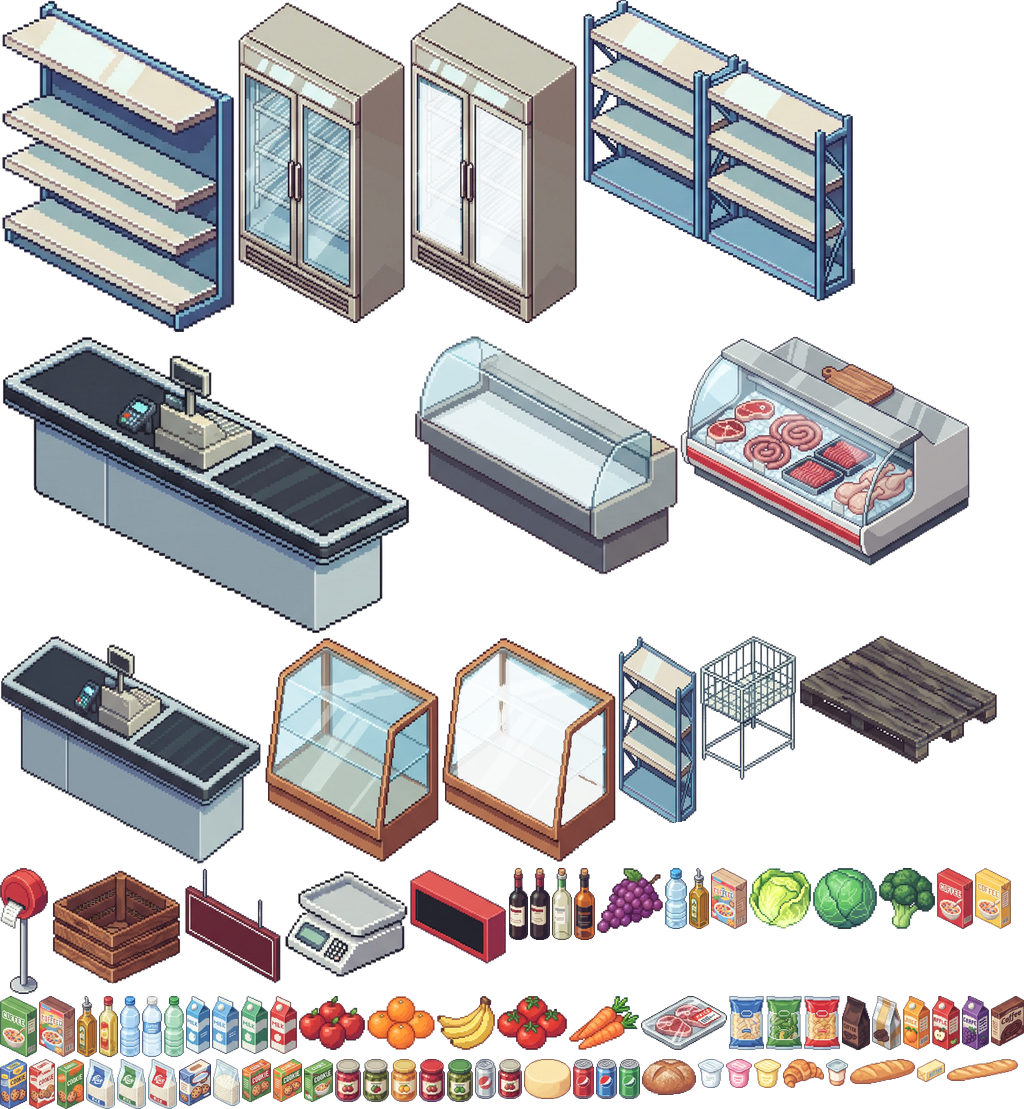
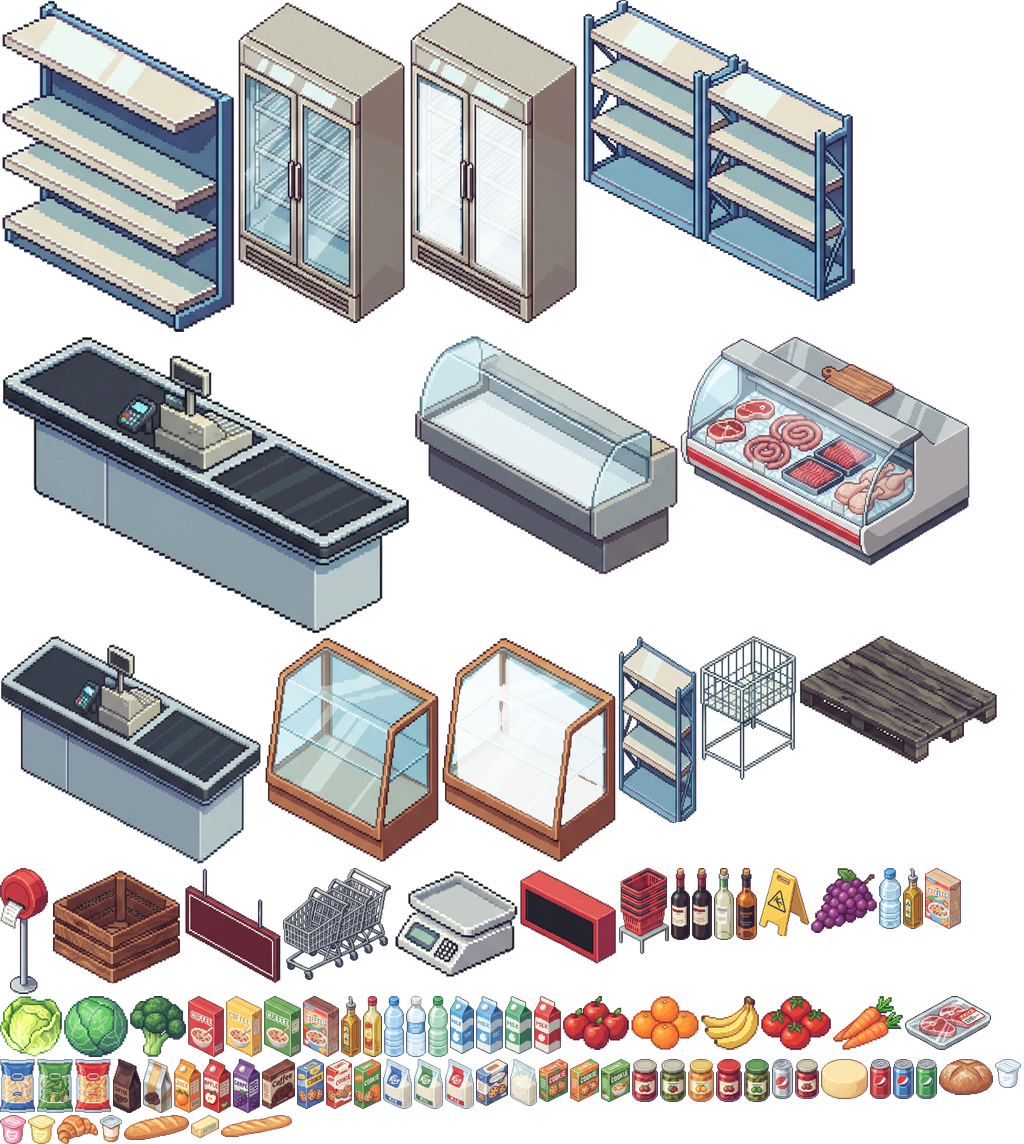
Grafica: nonna col carrello, addetta pulizie, magazziniere, clienti in fila, cartello e carrelli

diff --git a/nonna-moduli.html b/nonna-moduli.html
@@ -93,8 +93,8 @@ canvas{position:fixed;inset:0;width:100%;height:100%}
 // GRIGLIA ISOMETRICA. Una casella = rombo 116x60 px. i scende verso destra, j verso sinistra.
 // Le pareti stanno sui lati i=0 (sinistra) e j=0 (destra). Davanti la stanza è aperta.
 // ===================================================================================
-const atlas=new Image();atlas.src='personaggi2.png?v=2';
-const PG=/*PG*/{"nonna:idle":[0,0,106,205,67,205],"nonna:w1":[108,0,130,207,84,207],"nonna:w2":[240,0,128,207,80,207],"nonna:w3":[370,0,122,207,72,207],"nonna:bidle":[494,0,103,194,60,194],"nonna:b1":[599,0,104,197,62,197],"nonna:b2":[705,0,103,196,63,196],"nonna:b3":[810,0,102,197,59,197],"nonna:reach":[914,0,166,199,81,199],"nonna:bend":[1082,0,156,177,90,177],"nonna:bag":[1240,0,87,201,41,201],"nonna:jump":[0,209,154,191,71,191],"nonna:scale":[156,209,161,200,94,200],"nonna:box":[319,209,121,200,38,200],"nonna:win":[442,209,138,201,70,201],"nonna:lose":[582,209,112,200,51,200],"baffi:idle":[696,209,193,250,133,250],"baffi:w1":[891,209,199,250,140,250],"baffi:w2":[1092,209,193,250,134,250],"baffi:w3":[0,461,191,250,132,250],"baffi:bidle":[193,461,164,221,71,221],"baffi:b1":[359,461,165,221,68,221],"baffi:b3":[526,461,149,221,61,221],"baffi:think":[677,461,204,263,140,263],"baffi:grab":[883,461,279,263,215,263],"mamma:idle":[1164,461,157,245,102,245],"mamma:w1":[0,726,179,244,124,244],"mamma:w2":[181,726,177,244,112,244],"mamma:w3":[360,726,179,244,123,244],"mamma:b1":[541,726,113,229,46,229],"mamma:b2":[656,726,139,229,48,229],"mamma:b3":[797,726,142,229,50,229],"mamma:list":[941,726,180,239,122,239],"mamma:point":[1123,726,181,239,123,239],"mamma:scold":[0,972,182,239,124,239],"anziano:idle":[184,972,155,240,51,240],"anziano:w1":[341,972,154,240,71,240],"anziano:bidle":[497,972,154,244,96,244],"anziano:b1":[653,972,156,247,78,247],"anziano:b2":[811,972,154,237,100,237],"anziano:b3":[967,972,155,247,80,247],"anziano:look":[1124,972,180,238,79,238],"anziano:put":[0,1221,188,237,79,237],"anziano:hat":[190,1221,175,265,78,265],"anziano:cane":[367,1221,217,263,78,263],"ragazzo:idle":[586,1221,98,235,42,235],"ragazzo:w1":[686,1221,134,229,100,229],"ragazzo:w2":[822,1221,149,229,116,229],"ragazzo:w3":[973,1221,169,205,41,205],"ragazzo:bidle":[1144,1221,89,236,54,236],"ragazzo:b1":[1235,1221,141,226,115,226],"ragazzo:b3":[0,1488,155,216,96,216],"ragazzo:skid":[157,1488,214,238,152,238],"ragazzo:grab":[373,1488,136,233,76,233],"ragazzo:trip":[511,1488,205,236,92,236],"ragazzo:sorry":[718,1488,124,244,48,244],"cassieri:f_idle":[844,1488,85,250,42,250],"cassieri:f_scan":[931,1488,126,250,39,250],"cassieri:f_type":[1059,1488,147,250,37,250],"cassieri:f_wave":[1208,1488,120,250,38,250],"cassieri:m_idle":[0,1740,84,254,36,254],"cassieri:m_scan":[86,1740,118,253,32,253],"cassieri:m_type":[206,1740,142,248,31,248],"cassieri:m_wave":[350,1740,118,253,40,253],"macellaio:idle":[470,1740,104,255,35,255],"macellaio:chop":[576,1740,134,263,26,263],"macellaio:give":[712,1740,156,255,30,255],"macellaio:call":[870,1740,151,255,42,255]}/*PG*/; // pose dei personaggi: chiave 'chi:posa' -> [x,y,w,h,piedi x,piedi y], tutte girate a destra
+const atlas=new Image();atlas.src='personaggi2.png?v=3';
+const PG=/*PG*/{"nonna:idle":[0,0,106,205,67,205],"nonna:w1":[108,0,130,207,84,207],"nonna:w2":[240,0,128,207,80,207],"nonna:w3":[370,0,122,207,72,207],"nonna:bidle":[494,0,103,194,60,194],"nonna:b1":[599,0,104,197,62,197],"nonna:b2":[705,0,103,196,63,196],"nonna:b3":[810,0,102,197,59,197],"nonna:reach":[914,0,166,199,81,199],"nonna:bend":[1082,0,156,177,90,177],"nonna:bag":[1240,0,87,201,41,201],"nonna:jump":[0,209,154,191,71,191],"nonna:scale":[156,209,161,200,94,200],"nonna:box":[319,209,121,200,38,200],"nonna:win":[442,209,138,201,70,201],"nonna:lose":[582,209,112,200,51,200],"baffi:idle":[696,209,193,250,133,250],"baffi:w1":[891,209,199,250,140,250],"baffi:w2":[1092,209,193,250,134,250],"baffi:w3":[0,461,191,250,132,250],"baffi:bidle":[193,461,164,221,71,221],"baffi:b1":[359,461,165,221,68,221],"baffi:b3":[526,461,149,221,61,221],"baffi:think":[677,461,204,263,140,263],"baffi:grab":[883,461,279,263,215,263],"mamma:idle":[1164,461,157,245,102,245],"mamma:w1":[0,726,179,244,124,244],"mamma:w2":[181,726,177,244,112,244],"mamma:w3":[360,726,179,244,123,244],"mamma:b1":[541,726,113,229,46,229],"mamma:b2":[656,726,139,229,48,229],"mamma:b3":[797,726,142,229,50,229],"mamma:list":[941,726,180,239,122,239],"mamma:point":[1123,726,181,239,123,239],"mamma:scold":[0,972,182,239,124,239],"anziano:idle":[184,972,155,240,51,240],"anziano:w1":[341,972,154,240,71,240],"anziano:bidle":[497,972,154,244,96,244],"anziano:b1":[653,972,156,247,78,247],"anziano:b2":[811,972,154,237,100,237],"anziano:b3":[967,972,155,247,80,247],"anziano:look":[1124,972,180,238,79,238],"anziano:put":[0,1221,188,237,79,237],"anziano:hat":[190,1221,175,265,78,265],"anziano:cane":[367,1221,217,263,78,263],"ragazzo:idle":[586,1221,98,235,42,235],"ragazzo:w1":[686,1221,134,229,100,229],"ragazzo:w2":[822,1221,149,229,116,229],"ragazzo:w3":[973,1221,169,205,41,205],"ragazzo:bidle":[1144,1221,89,236,54,236],"ragazzo:b1":[1235,1221,141,226,115,226],"ragazzo:b3":[0,1488,155,216,96,216],"ragazzo:skid":[157,1488,214,238,152,238],"ragazzo:grab":[373,1488,136,233,76,233],"ragazzo:trip":[511,1488,205,236,92,236],"ragazzo:sorry":[718,1488,124,244,48,244],"cassieri:f_idle":[844,1488,85,250,42,250],"cassieri:f_scan":[931,1488,126,250,39,250],"cassieri:f_type":[1059,1488,147,250,37,250],"cassieri:f_wave":[1208,1488,120,250,38,250],"cassieri:m_idle":[0,1740,84,254,36,254],"cassieri:m_scan":[86,1740,118,253,32,253],"cassieri:m_type":[206,1740,142,248,31,248],"cassieri:m_wave":[350,1740,118,253,40,253],"macellaio:idle":[470,1740,104,255,35,255],"macellaio:chop":[576,1740,134,263,26,263],"macellaio:give":[712,1740,156,255,30,255],"macellaio:call":[870,1740,151,255,42,255],"nonnac:idle":[1023,1740,175,205,91,205],"nonnac:w1":[1200,1740,190,205,93,205],"nonnac:w2":[0,2005,185,205,94,205],"nonnac:w3":[187,2005,193,205,96,205],"nonnac:bidle":[382,2005,178,197,94,197],"nonnac:b1":[562,2005,198,199,96,199],"nonnac:b2":[762,2005,194,199,98,199],"nonnac:b3":[958,2005,197,199,96,199],"nonna:phone":[1157,2005,108,200,57,200],"nonna:slip":[0,2212,236,215,90,215],"nonna:watch":[238,2212,102,200,37,200],"nonna:wait":[342,2212,105,200,36,200],"pulizie:idle":[449,2212,93,235,50,235],"pulizie:w1":[544,2212,147,233,79,233],"pulizie:w2":[693,2212,147,235,63,235],"pulizie:w3":[842,2212,141,232,82,232],"pulizie:mop1":[985,2212,178,231,115,231],"pulizie:mop2":[1165,2212,179,231,115,231],"pulizie:sign":[0,2449,158,213,88,213],"pulizie:rest":[160,2449,130,245,68,245],"magazziniere:idle":[292,2449,187,245,94,245],"magazziniere:w1":[481,2449,235,245,117,245],"magazziniere:w2":[718,2449,203,245,101,245],"magazziniere:w3":[923,2449,221,245,110,245],"magazziniere:carry":[1146,2449,118,254,57,254],"magazziniere:shelf":[0,2705,176,251,85,251],"magazziniere:kneel":[178,2705,192,209,113,209],"magazziniere:thumb":[372,2705,127,256,62,256],"dama:idle":[501,2705,144,245,64,245],"manager:idle":[647,2705,116,249,43,249],"studente:idle":[765,2705,125,235,56,235],"tifoso:idle":[892,2705,167,256,85,256],"papa:idle":[1061,2705,188,263,98,263],"vecchina:idle":[0,2970,195,247,100,247],"muratore:idle":[197,2970,188,262,98,262],"riccia:idle":[387,2970,182,259,100,259]}/*PG*/; // pose dei personaggi: chiave 'chi:posa' -> [x,y,w,h,piedi x,piedi y], tutte girate a destra
 const T=58,U=30,ART=4,FW=24,FH=55,WALLH=250,MARG=90;
 // LIVELLI: ogni livello dice cosa c'è in lista e quanti clienti girano. Bilancia e macelleria compaiono solo quando servono.
 // fresh = verdure da pesare, pack = confezionati, meat = carne, time = secondi, npc = clienti, txt = spiegazione a inizio livello
@@ -176,8 +176,8 @@ function fruit(c,x,y,n){const [col,r]=FRUIT[n];c.strokeStyle='#2a1c14';c.lineWid
   else{ball(x,y-r*.7,r,col);if(r>15){ball(x,y-r*.95,r*.6,'rgba(255,255,255,.25)')}hi(x,y-r*.7,r)}}
 
 // pezzi del foglio AI, già scalati alla griglia da tools/kit.py (kit.png + misure qui sotto)
-const kit=new Image();kit.src='kit.png?v=5'; // ?v: il telefono non tiene la vecchia immagine
-const KJ=/*KIT*/{"scaffale":{"ax":5.4,"ay":181.6,"L":4,"sv":0.4462,"boards":[149.0,104.4,59.8,10.7],"spans":[[0.03,0.44],[0.52,0.96]],"r":[581,0,277,304]},"muro":{"ax":4.2,"ay":241.2,"L":3,"sv":0.5631,"boards":[203.8,125.0,74.3,20.8],"spans":[[0.02,1.0]],"r":[0,0,235,332]},"frigo":{"ax":2.9,"ay":262.5,"L":2,"sv":0.45,"boards":[155.7,115.2,74.7,38.7],"spans":[[0.06,0.46],[0.56,0.94]],"r":[237,0,170,323]},"frigo:vetro":{"ax":2.9,"ay":262.5,"r":[409,0,170,323]},"cassetta":{"ax":4.4,"ay":84.8,"L":1,"sv":0.3694,"r":[50,868,132,117]},"pane":{"ax":2.7,"ay":165.7,"L":2,"sv":0.42,"r":[264,635,175,228]},"pane:vetro":{"ax":2.7,"ay":165.7,"r":[441,635,175,228]},"cassa":{"ax":141.8,"ay":206.8,"L":3,"sv":0.5273,"r":[0,334,412,299]},"cassa2":{"ax":24.7,"ay":135.2,"L":3,"sv":0.45,"r":[0,635,262,231]},"salumi":{"ax":13.5,"ay":146.5,"L":3,"sv":0.3742,"r":[414,334,264,241]},"bancale":{"ax":0.9,"ay":67.8,"L":2,"sv":0.3045,"r":[799,635,199,129]},"cesta":{"ax":2.4,"ay":123.4,"L":0.7,"sv":0.2671,"r":[699,635,98,146]},"testata":{"ax":1.7,"ay":155.6,"L":1,"sv":0.3,"boards":[104.1,72.3,40.5,9.0],"spans":[[0.05,0.85]],"r":[618,635,79,189]},"bilancia":{"ax":4.3,"ay":81.0,"L":0.9,"sv":0.4789,"r":[283,868,125,110]},"macelleria":{"ax":16.0,"ay":139.8,"L":3,"sv":0.2434,"r":[680,334,291,234]},"display":{"ax":0.7,"ay":56.2,"L":1.32,"sv":0.243,"r":[410,868,97,97]},"insegna":{"ax":1.7,"ay":65.2,"L":1.6,"sv":0.2442,"r":[184,868,97,116]},"p:ACQUA:0":{"r":[665,868,22,61]},"p:VINO:0":{"r":[509,868,19,72]},"p:OLIO:0":{"r":[689,868,20,61]},"p:BIBITE:0":{"r":[475,1059,21,40]},"p:CONSERVE:0":{"r":[498,1059,24,40]},"p:BISCOTTI:0":{"r":[179,1059,32,47]},"p:CAFFÈ:0":{"r":[991,996,33,50]},"p:CEREALI:0":{"r":[711,868,36,61]},"p:RISO:0":{"r":[213,1059,27,47]},"p:LATTE:0":{"r":[186,996,24,58]},"p:YOGURT:0":{"r":[826,1059,22,27]},"p:BURRO:0":{"r":[917,1059,28,23]},"p:FORMAGGI:0":{"r":[524,1059,47,40]},"p:MELE:0":{"r":[299,996,66,54]},"p:ARANCE:0":{"r":[367,996,68,54]},"p:BANANE:0":{"r":[437,996,58,54]},"p:POMODORI:0":{"r":[497,996,70,54]},"p:UVA:0":{"r":[597,868,66,65]},"p:INSALATA:0":{"r":[749,868,62,61]},"p:CAVOLI:0":{"r":[813,868,64,61]},"p:BROCCOLI:0":{"r":[879,868,56,61]},"p:CAROTE:0":{"r":[569,996,70,54]},"p:CARNE:0":{"r":[641,996,86,54]},"distributore":{"r":[0,868,48,126]},"p:PASTA:0":{"r":[729,996,35,54]},"p:PASTA:1":{"r":[766,996,36,54]},"p:PASTA:2":{"r":[804,996,36,54]},"p:BISCOTTI:1":{"r":[0,1059,27,50]},"p:BISCOTTI:2":{"r":[29,1059,26,50]},"p:BISCOTTI:3":{"r":[57,1059,27,50]},"p:BISCOTTI:4":{"r":[242,1059,29,43]},"p:BISCOTTI:5":{"r":[273,1059,29,43]},"p:BISCOTTI:6":{"r":[304,1059,29,43]},"p:CEREALI:1":{"r":[937,868,36,61]},"p:CEREALI:2":{"r":[975,868,36,61]},"p:CEREALI:3":{"r":[0,996,37,61]},"p:CEREALI:4":{"r":[39,996,36,61]},"p:CAFFÈ:1":{"r":[842,996,28,54]},"p:CAFFÈ:2":{"r":[872,996,29,54]},"p:RISO:1":{"r":[86,1059,29,50]},"p:RISO:2":{"r":[117,1059,29,50]},"p:RISO:3":{"r":[148,1059,29,50]},"p:CONSERVE:1":{"r":[335,1059,26,43]},"p:CONSERVE:2":{"r":[363,1059,26,43]},"p:CONSERVE:3":{"r":[391,1059,26,43]},"p:CONSERVE:4":{"r":[419,1059,26,43]},"p:CONSERVE:5":{"r":[447,1059,26,43]},"p:OLIO:1":{"r":[77,996,20,61]},"p:OLIO:2":{"r":[99,996,19,61]},"p:VINO:1":{"r":[530,868,20,72]},"p:VINO:2":{"r":[552,868,20,72]},"p:VINO:3":{"r":[574,868,21,72]},"p:ACQUA:1":{"r":[120,996,20,61]},"p:ACQUA:2":{"r":[142,996,20,61]},"p:ACQUA:3":{"r":[164,996,20,61]},"p:BIBITE:1":{"r":[573,1059,21,40]},"p:BIBITE:2":{"r":[596,1059,21,40]},"p:BIBITE:3":{"r":[619,1059,21,40]},"p:SUCCHI:0":{"r":[903,996,27,54]},"p:SUCCHI:1":{"r":[932,996,28,54]},"p:SUCCHI:2":{"r":[962,996,27,54]},"p:LATTE:1":{"r":[212,996,27,58]},"p:LATTE:2":{"r":[241,996,27,58]},"p:LATTE:3":{"r":[270,996,27,58]},"p:YOGURT:1":{"r":[698,1059,26,29]},"p:YOGURT:2":{"r":[726,1059,26,29]},"p:YOGURT:3":{"r":[754,1059,27,29]},"p:PANE:0":{"r":[642,1059,54,36]},"p:PANE:1":{"r":[850,1059,65,25]},"p:PANE:2":{"r":[947,1059,71,22]},"p:PANE:3":{"r":[783,1059,41,29]}}/*KIT*/;
+const kit=new Image();kit.src='kit.png?v=6'; // ?v: il telefono non tiene la vecchia immagine
+const KJ=/*KIT*/{"scaffale":{"ax":5.4,"ay":181.6,"L":4,"sv":0.4462,"boards":[149.0,104.4,59.8,10.7],"spans":[[0.03,0.44],[0.52,0.96]],"r":[581,0,277,304]},"muro":{"ax":4.2,"ay":241.2,"L":3,"sv":0.5631,"boards":[203.8,125.0,74.3,20.8],"spans":[[0.02,1.0]],"r":[0,0,235,332]},"frigo":{"ax":2.9,"ay":262.5,"L":2,"sv":0.45,"boards":[155.7,115.2,74.7,38.7],"spans":[[0.06,0.46],[0.56,0.94]],"r":[237,0,170,323]},"frigo:vetro":{"ax":2.9,"ay":262.5,"r":[409,0,170,323]},"cassetta":{"ax":4.4,"ay":84.8,"L":1,"sv":0.3694,"r":[50,868,132,117]},"pane":{"ax":2.7,"ay":165.7,"L":2,"sv":0.42,"r":[264,635,175,228]},"pane:vetro":{"ax":2.7,"ay":165.7,"r":[441,635,175,228]},"cassa":{"ax":141.8,"ay":206.8,"L":3,"sv":0.5273,"r":[0,334,412,299]},"cassa2":{"ax":24.7,"ay":135.2,"L":3,"sv":0.45,"r":[0,635,262,231]},"salumi":{"ax":13.5,"ay":146.5,"L":3,"sv":0.3742,"r":[414,334,264,241]},"bancale":{"ax":0.9,"ay":67.8,"L":2,"sv":0.3045,"r":[799,635,199,129]},"cesta":{"ax":2.4,"ay":123.4,"L":0.7,"sv":0.2671,"r":[699,635,98,146]},"testata":{"ax":1.7,"ay":155.6,"L":1,"sv":0.3,"boards":[104.1,72.3,40.5,9.0],"spans":[[0.05,0.85]],"r":[618,635,79,189]},"bilancia":{"ax":4.3,"ay":81.0,"L":0.9,"sv":0.4789,"r":[393,868,125,110]},"macelleria":{"ax":16.0,"ay":139.8,"L":3,"sv":0.2434,"r":[680,334,291,234]},"display":{"ax":0.7,"ay":56.2,"L":1.32,"sv":0.243,"r":[520,868,97,97]},"insegna":{"ax":1.7,"ay":65.2,"L":1.6,"sv":0.2442,"r":[184,868,97,116]},"p:ACQUA:0":{"r":[879,868,22,61]},"p:VINO:0":{"r":[671,868,19,72]},"p:OLIO:0":{"r":[903,868,20,61]},"p:BIBITE:0":{"r":[772,1059,21,40]},"p:CONSERVE:0":{"r":[795,1059,24,40]},"p:BISCOTTI:0":{"r":[476,1059,32,47]},"p:CAFFÈ:0":{"r":[262,1059,33,50]},"p:CEREALI:0":{"r":[925,868,36,61]},"p:RISO:0":{"r":[510,1059,27,47]},"p:LATTE:0":{"r":[450,996,24,58]},"p:YOGURT:0":{"r":[100,1115,22,27]},"p:BURRO:0":{"r":[191,1115,28,23]},"p:FORMAGGI:0":{"r":[821,1059,47,40]},"p:MELE:0":{"r":[563,996,66,54]},"p:ARANCE:0":{"r":[631,996,68,54]},"p:BANANE:0":{"r":[701,996,58,54]},"p:POMODORI:0":{"r":[761,996,70,54]},"p:UVA:0":{"r":[811,868,66,65]},"p:INSALATA:0":{"r":[0,996,62,61]},"p:CAVOLI:0":{"r":[64,996,64,61]},"p:BROCCOLI:0":{"r":[130,996,56,61]},"p:CAROTE:0":{"r":[833,996,70,54]},"p:CARNE:0":{"r":[905,996,86,54]},"distributore":{"r":[0,868,48,126]},"cartello":{"r":[759,868,50,68]},"carrelli":{"r":[283,868,108,112]},"cestini":{"r":[619,868,50,86]},"p:PASTA:0":{"r":[0,1059,35,54]},"p:PASTA:1":{"r":[37,1059,36,54]},"p:PASTA:2":{"r":[75,1059,36,54]},"p:BISCOTTI:1":{"r":[297,1059,27,50]},"p:BISCOTTI:2":{"r":[326,1059,26,50]},"p:BISCOTTI:3":{"r":[354,1059,27,50]},"p:BISCOTTI:4":{"r":[539,1059,29,43]},"p:BISCOTTI:5":{"r":[570,1059,29,43]},"p:BISCOTTI:6":{"r":[601,1059,29,43]},"p:CEREALI:1":{"r":[188,996,36,61]},"p:CEREALI:2":{"r":[226,996,36,61]},"p:CEREALI:3":{"r":[264,996,37,61]},"p:CEREALI:4":{"r":[303,996,36,61]},"p:CAFFÈ:1":{"r":[113,1059,28,54]},"p:CAFFÈ:2":{"r":[143,1059,29,54]},"p:RISO:1":{"r":[383,1059,29,50]},"p:RISO:2":{"r":[414,1059,29,50]},"p:RISO:3":{"r":[445,1059,29,50]},"p:CONSERVE:1":{"r":[632,1059,26,43]},"p:CONSERVE:2":{"r":[660,1059,26,43]},"p:CONSERVE:3":{"r":[688,1059,26,43]},"p:CONSERVE:4":{"r":[716,1059,26,43]},"p:CONSERVE:5":{"r":[744,1059,26,43]},"p:OLIO:1":{"r":[341,996,20,61]},"p:OLIO:2":{"r":[363,996,19,61]},"p:VINO:1":{"r":[692,868,20,72]},"p:VINO:2":{"r":[714,868,20,72]},"p:VINO:3":{"r":[736,868,21,72]},"p:ACQUA:1":{"r":[384,996,20,61]},"p:ACQUA:2":{"r":[406,996,20,61]},"p:ACQUA:3":{"r":[428,996,20,61]},"p:BIBITE:1":{"r":[870,1059,21,40]},"p:BIBITE:2":{"r":[893,1059,21,40]},"p:BIBITE:3":{"r":[916,1059,21,40]},"p:SUCCHI:0":{"r":[174,1059,27,54]},"p:SUCCHI:1":{"r":[203,1059,28,54]},"p:SUCCHI:2":{"r":[233,1059,27,54]},"p:LATTE:1":{"r":[476,996,27,58]},"p:LATTE:2":{"r":[505,996,27,58]},"p:LATTE:3":{"r":[534,996,27,58]},"p:YOGURT:1":{"r":[995,1059,26,29]},"p:YOGURT:2":{"r":[0,1115,26,29]},"p:YOGURT:3":{"r":[28,1115,27,29]},"p:PANE:0":{"r":[939,1059,54,36]},"p:PANE:1":{"r":[124,1115,65,25]},"p:PANE:2":{"r":[221,1115,71,22]},"p:PANE:3":{"r":[57,1115,41,29]}}/*KIT*/;
 const FV={macelleria:2,scaffale:.8,muro:.5,frigo:.92,pane:.88,cassetta:1,cassa2:1.9,salumi:1,bancale:1.7,cesta:.95,testata:.95};
 const VAR=c=>Object.keys(KJ).filter(k=>k.startsWith('p:'+c+':')); // tutte le marche di una categoria // dove cade il bordo anteriore dentro la casella
 const anchor=(m,fv,du=0)=>m.ax==='i'?iso(m.i+du,m.j+fv):iso(m.i+fv,m.j+du);
@@ -332,7 +332,7 @@ let AC;function beep(f,d=.08,t='square'){try{AC=AC||new AudioContext();const o=A
 const CAST=[{who:'baffi',cart:true,speed:150,extras:['think','grab']},{who:'mamma',cart:true,speed:135,extras:['list','point','scold']},
   {who:'anziano',cart:false,speed:105,extras:['look','put','hat','cane']},{who:'ragazzo',cart:false,speed:240,extras:['grab','sorry','skid']}];
 let CASH=[]; // cassieri: stanno fermi dietro il banco e cambiano posa
-let G,NPC=[],READY=false,CODE={},WET=[],OUT=null,CHOICE=0;
+let G,NPC=[],READY=false,CODE={},WET=[],OUT=null,CHOICE=0,CLEAN=null,MAG=null;
 // FILA ALLA BILANCIA: QUEUE[0] è chiamato. Se c'è qualcuno dietro ha WINDOW secondi per presentarsi, poi perde il posto.
 const WINDOW=5,NAME={nonna:'TU',baffi:'Signore',mamma:'Mamma',anziano:'Nonno',ragazzo:'Ragazzo'};let QUEUE=[],QT=WINDOW;
 function book(a){if(!QUEUE.includes(a)){QUEUE.push(a);if(QUEUE.length===1)QT=WINDOW}}
@@ -382,29 +382,46 @@ function start(keepLevel){
   OUT=null;if(L.out){const c=G.list.filter(e=>!FRESH.has(e.n)&&e.n!=='CARNE'&&MODS.some(m=>m.cat===e.n)),alts=[...new Set(SPOTS.map(s=>s.n))].filter(n=>!FRESH.has(n)&&!G.list.some(e=>e.n===n));
     if(c.length&&alts.length){const e=c[ri(c.length)];e.alt=alts[ri(alts.length)];OUT={n:e.n,t:rnd(35,50)}}}
   stock();
-  G.cart=!!L.cart&&CHOICE===1;if(G.cart){G.rx=50;G.ry=20}
+  G.cart=!!L.cart&&CHOICE===1;if(G.cart)Object.assign(G,{who:'nonnac',rx:50,ry:20});
+  CLEAN=L.wet?Object.assign(newActor('pulizie',...(({x,y})=>[x,y])(wetSpot(WET))),{path:[],st:null,t:0}):null;
+  MAG=null;if(OUT){const sp=SPOTS.find(s=>s.n===OUT.n),goal=nearestNode(...iso(sp.i,sp.j)),far=NODES.map((p,i)=>i).filter(i=>ADJ[i].length&&Math.hypot(NODES[i][0]-NODES[goal][0],NODES[i][1]-NODES[goal][1])>700),home=far.length?far[ri(far.length)]:goal;
+    const path=pathTo(home,goal)||[];let len=0;path.reduce((a,b)=>(len+=Math.hypot(a[0]-b[0],a[1]-b[1]),b),NODES[home]);
+    MAG=Object.assign(newActor('magazziniere',...NODES[home]),{path:[],goal,st:'wait',cart:true,lead:len/120+5})} // parte in tempo per arrivare 5 s prima del rifornimento
   $('over').hidden=true;drawList()}
 // fila alla cassa: un cliente in più in coda (i clienti in fila sono comparse ferme, non girano)
-function addQ(c){if(c.q.length>=c.slots.length)return;const w=CAST[ri(CAST.length)];c.q.push(Object.assign(newActor(w.who,...c.slots[c.q.length]),{cart:w.cart}))}
+const EXTRAS=[['dama'],['manager'],['studente'],['tifoso'],['papa',1],['vecchina',1],['muratore',1],['riccia',1]];
+function addQ(c){if(c.q.length>=c.slots.length)return;const used=new Set(CASSE.flatMap(c=>c.q.map(a=>a.who))),pool=EXTRAS.filter(e=>!used.has(e[0]));if(!pool.length)return;
+  const [who,cart]=pool[ri(pool.length)];c.q.push(Object.assign(newActor(who,...c.slots[c.q.length]),{cart:!!cart}))}
 function updateTills(dt){for(const c of CASSE){
-  c.q.forEach((a,k)=>{const [x,y]=c.slots[Math.min(k,c.slots.length-1)],dx=x-a.x,dy=y-a.y,d=Math.hypot(dx,dy);a.front=true;a.flip=false;if(d>3){const v=Math.min(d,200*dt);a.x+=dx/d*v;a.y+=dy/d*v;a.moving=true;a.walk+=dt*6}else a.moving=false});
+  c.q.forEach((a,k)=>{const [x,y]=c.slots[Math.min(k,c.slots.length-1)],dx=x-a.x,dy=y-a.y,d=Math.hypot(dx,dy);a.front=true;a.flip=false;if(d>3){const v=Math.min(d,200*dt);a.x+=dx/d*v;a.y+=dy/d*v;a.moving=true;a.walk+=dt*6}else a.moving=false;
+    if(a===G)G.pose=a.moving||G.cart?null:G.time%6<3?'wait':'watch'}); // in fila la nonna aspetta e guarda l'orologio
   if(c.q[0]===G)return winGame();
   if(c.q.length&&(c.t-=dt)<=0){c.q.shift();c.t=c.rate}
   if(lv(LV).tills&&Math.random()<dt/(c.rate*1.4))addQ(c)}}
+function walk(a,dt,sp){const [tx,ty]=a.path[0],dx=tx-a.x,dy=ty-a.y,d=Math.hypot(dx,dy);if(d<6){a.path.shift();return}
+  const v=Math.min(d,sp*dt);a.x+=dx/d*v;a.y+=dy/d*v;a.moving=true;a.walk+=dt*sp/30;face(a,dx,dy);a.front=true} // niente pose di spalle: sempre di fronte
+// addetta pulizie: va in un punto, passa lo straccio, mette il cartello; la pozzanghera più vecchia si asciuga
+function updateClean(c,dt){if(!c)return;c.moving=false;
+  if(c.t>0){c.t-=dt;c.pose=c.st==='mop'?((c.t*2.5|0)%2?'mop1':'mop2'):c.st;if(c.t>0)return;
+    if(c.st==='mop'){WET.push({x:c.x,y:c.y});if(WET.length>lv(LV).wet)WET.shift();c.st='sign';c.t=.8;return}
+    if(c.st==='sign'){c.st='rest';c.t=1.5;return}
+    c.st=null;c.pose=null;const s=wetSpot(WET);c.path=pathTo(nearestNode(c.x,c.y),nearestNode(s.x,s.y))||[];return}
+  if(!c.path.length){c.st='mop';c.t=3;return}
+  walk(c,dt,110)}
+// magazziniere: aspetta col carrello delle scatole, parte in tempo, apre la scatola e riempie lo scaffale
+function updateMag(m,dt){if(!m)return;m.moving=false;
+  if(m.st==='wait'){if(OUT.t<=m.lead){m.st='go';m.path=pathTo(nearestNode(m.x,m.y),m.goal)||[]}return}
+  if(m.st==='go'){if(m.path.length)return walk(m,dt,120);m.st='work'}
+  if(m.st==='work'){m.pose=OUT.t>2.5?'kneel':'shelf';if(OUT.t<=0){m.st='done';m.pose='thumb';m.t=1.5}return}
+  if(m.st==='done'&&(m.t-=dt)<=0){m.pose=null;m.st='idle'}}
 function winGame(){end(true);[523,659,784,1046].forEach((f,i)=>setTimeout(()=>beep(f,.12),i*120))}
 // pozzanghera: in corsia, lontana da ingresso, casse, bilancia, macelleria e dalle altre pozzanghere
 function wetSpot(others){for(let t=0;t<60;t++){const i=ri(NODES.length);if(!ADJ[i].length)continue;const [x,y]=NODES[i],far=p=>Math.hypot(x-p[0],y-p[1])>260;
-  if(far(iso(...START))&&CASSE.every(c=>far(c.slots[0]))&&(!SCALE||far(SCALE_STAND))&&(!MAC||far(MAC.stand))&&others.every(w=>far([w.x,w.y])))return{x,y,t:rnd(15,22)}}return{x:-1e4,y:-1e4,t:5}}
-function drawSign(x,y){poly(ctx,[[x-16,y],[x+16,y],[x+8,y-58],[x-8,y-58]],'#f4d020','#3a2a10',3);ctx.font='700 30px "Pixelify Sans",monospace';ctx.textAlign='center';ctx.textBaseline='middle';ctx.fillStyle='#3a2a10';ctx.fillText('!',x,y-28)}
-// ponytail: carrello disegnato a mano finché non c'è lo sprite della nonna col carrello
-function drawCart(a){const d=a.flip?-1:1,x=a.x+d*56,y=a.y;ctx.lineWidth=4;ctx.strokeStyle='#4a525e';
-  poly(ctx,[[x-d*38,y-82],[x+d*38,y-82],[x+d*30,y-30],[x-d*30,y-30]],'rgba(205,214,224,.6)','#4a525e',4);
-  ctx.beginPath();for(let k=-2;k<=2;k++){ctx.moveTo(x+d*k*14,y-82);ctx.lineTo(x+d*k*11,y-30)}ctx.moveTo(x-d*38,y-82);ctx.lineTo(x-d*56,y-98);ctx.stroke();
-  ctx.fillStyle='#2a2430';for(const k of [-22,22]){ctx.beginPath();ctx.arc(x+d*k,y-12,7,0,7);ctx.fill()}}
+  if(far(iso(...START))&&CASSE.every(c=>far(c.slots[0]))&&(!SCALE||far(SCALE_STAND))&&(!MAC||far(MAC.stand))&&others.every(w=>far([w.x,w.y])))return{x,y}}return{x:-1e4,y:-1e4}}
 // telefonata del nipote: toglie una cosa non ancora presa oppure ne aggiunge una (+10 s)
 function phone(){const inL=new Set(G.list.flatMap(e=>[e.n,e.alt])),add=[...new Set(SPOTS.map(s=>s.n))].filter(n=>!inL.has(n)&&(SCALE||!FRESH.has(n))),
   drop=G.list.filter(e=>!e.got&&!G.bag.includes(e.n)&&e.n!=='CARNE'&&!e.alt);
-  [0,220,440,660].forEach(t=>setTimeout(()=>beep(1320,.07),t));act(G,'idle',2.5);
+  [0,220,440,660].forEach(t=>setTimeout(()=>beep(1320,.07),t));act(G,'phone',3);
   if(drop.length&&(Math.random()<.4||!add.length)){const e=drop[ri(drop.length)];G.list.splice(G.list.indexOf(e),1);say('📞 Il nipote: «Nonna, lascia stare '+e.n+'!»',3.5);checkDone()}
   else if(add.length){const n=add[ri(add.length)];G.list.push({n,got:false,nu:true});G.time+=10;say('📞 Il nipote: «Nonna, prendi anche '+n+'!» +10s',3.5)}
   drawList()}
@@ -541,7 +558,7 @@ function update(dt){
   if(G.weighing){G.front=false;updBil(dt)}
   else if(G.serving){G.front=false;if((G.serveT-=dt)<=0){G.serving=false;leaveMac(G);const e=G.list.find(e=>e.n==='CARNE');if(e)e.got=true;act(G,'box',.6);drawList();say('Carne nel cestino!');beep(880);setTimeout(()=>beep(1175),70);checkDone()}}
   else if(G.slipT>0)G.slipT-=dt;
-  else if(G.till){if(Math.hypot(...inputVec())>.5){const q=G.till.q;q.splice(q.indexOf(G),1);G.till=null;G.tillCD=1.5;say('Hai lasciato la fila')}}
+  else if(G.till){if(Math.hypot(...inputVec())>.5){const q=G.till.q;q.splice(q.indexOf(G),1);G.till=null;G.tillCD=1.5;G.pose=null;say('Hai lasciato la fila')}}
   else{const [vx,vy]=inputVec(),m=Math.hypot(vx,vy);
     if(m>.12){const sp=(G.cart?270:380)*dt,nx=G.x+vx*sp,ny=G.y+vy*sp*.75;face(G,vx,vy);
       if(walkable(nx,G.y)&&!hits(G,nx,G.y))G.x=nx;if(walkable(G.x,ny)&&!hits(G,G.x,ny))G.y=ny;G.walk+=dt*9;G.moving=true}}
@@ -555,9 +572,9 @@ function update(dt){
     c.q.push(G);G.till=c;if(c.q.length>1)say('In fila: '+(c.q.length-1)+' davanti a te');break}
   updateTills(dt);if(G.state!=='play')return;
   if(G.slipCD>0)G.slipCD-=dt;
-  if(G.moving&&!(G.z>0)&&!(G.slipCD>0)&&WET.some(w=>((G.x-w.x)/70)**2+((G.y-w.y)/34)**2<1)){G.slipT=1.3;G.slipCD=3;act(G,'lose',1.3);say('Scivolone! Le pozzanghere si saltano',1.8);beep(140,.3,'sawtooth')}
-  for(const w of WET)if((w.t-=dt)<=0)Object.assign(w,wetSpot(WET.filter(o=>o!==w))); // l'addetto asciuga e bagna altrove
-  if(lv(LV).cart&&!G.cart&&load()>=4&&Math.hypot(G.x-iso(...START)[0],G.y-iso(...START)[1])<150){G.cart=true;G.rx=50;G.ry=20;drawList();say('Preso il carrello!');beep(600,.08)}
+  if(G.moving&&!(G.z>0)&&!(G.slipCD>0)&&WET.some(w=>((G.x-w.x)/70)**2+((G.y-w.y)/34)**2<1)){G.slipT=1.3;G.slipCD=3;act(G,'slip',1.3);say('Scivolone! Le pozzanghere si saltano',1.8);beep(140,.3,'sawtooth')}
+  updateClean(CLEAN,dt);updateMag(MAG,dt);
+  if(lv(LV).cart&&!G.cart&&load()>=4&&Math.hypot(G.x-iso(...START)[0],G.y-iso(...START)[1])<150){Object.assign(G,{cart:true,who:'nonnac',rx:50,ry:20,pose:null});drawList();say('Preso il carrello!');beep(600,.08)}
   if(G.phoneAt>0&&G.time<G.phoneAt){G.phoneAt=-1;phone()}
   if(OUT&&OUT.t>0&&(OUT.t-=dt)<=0){stock();const e=G.list.find(e=>e.n===OUT.n);if(e&&!e.got)say(OUT.n+' rifornito!',2)}
   const t=Math.ceil(G.time);$('time').textContent=Math.floor(t/60)+':'+String(t%60).padStart(2,'0');$('time').style.color=t<=10?'#ffd040':'#ff5040';
@@ -583,6 +600,7 @@ function occlude(a,x0,x1,y0,y1){const [ai,aj]=toTile(a.x,a.y);
     ctx.save();ctx.beginPath();ctx.rect(x0,y0,x1-x0,y1-y0);ctx.clip();ctx.drawImage(m.cv,m.bx,m.by);ctx.restore()}}
 function tag(x,y,t,fill='#e8c878'){ctx.font='700 40px "Pixelify Sans",monospace';ctx.textAlign='center';ctx.textBaseline='middle';const w=ctx.measureText(t).width+28;
   ctx.fillStyle='#1c3a24';ctx.fillRect(x-w/2-4,y-29,w+8,58);ctx.fillStyle=fill;ctx.fillRect(x-w/2,y-25,w,50);ctx.fillStyle='#1c3a24';ctx.fillText(t,x,y+1);ctx.fillRect(x-4,y+25,8,22)}
+const CARTS=()=>{const [x,y]=iso(R-.5,C-3.3),[u,v]=iso(R-.5,C-4.6);return [{deco:'carrelli',x,y},{deco:'cestini',x:u,y:v}]};
 function render(now){
   ctx.setTransform(1,0,0,1,0,0);ctx.fillStyle='#141018';ctx.fillRect(0,0,W,H);
   if(!READY)return;
@@ -591,10 +609,10 @@ function render(now){
   const cx=Math.max(0,Math.min(BW-vw,fx-vw/2)),cy=Math.max(0,Math.min(BH-vh,fyy-120-vh/2));
   ctx.setTransform(z,0,0,z,-cx*z,-cy*z);ctx.drawImage(STAGE,0,0);ctx.imageSmoothingEnabled=false;
   for(const w of WET){ctx.fillStyle='rgba(120,190,255,.45)';ctx.beginPath();ctx.ellipse(w.x,w.y,70,34,0,0,7);ctx.fill();ctx.fillStyle='rgba(255,255,255,.5)';ctx.beginPath();ctx.ellipse(w.x-18,w.y-8,20,6,0,0,7);ctx.fill()}
-  const actors=[...(G&&G.state!=='title'?[G,...NPC]:NPC),...CASH,...(BUT?[BUT]:[]),...CASSE.flatMap(c=>c.q.filter(a=>a!==G)),...WET.map(w=>({sign:1,x:w.x+44,y:w.y-4}))].sort((p,q)=>p.y-q.y);
-  for(const a of actors){if(a.sign){drawSign(a.x,a.y);continue}
+  const actors=[...(G&&G.state!=='title'?[G,...NPC]:NPC),...CASH,...(BUT?[BUT]:[]),...CASSE.flatMap(c=>c.q.filter(a=>a!==G)),...WET.map(w=>({deco:'cartello',x:w.x+44,y:w.y-4})),...(CLEAN?[CLEAN]:[]),...(MAG?[MAG]:[]),...(lv(LV).cart?CARTS():[])].sort((p,q)=>p.y-q.y);
+  for(const a of actors){if(a.deco){spr(ctx,a.deco,a.x,a.y,false,1);continue}
     if(a.who!=='cassieri'&&a.who!=='macellaio')shadow(a.x,a.y+2,a.cart?62:38,a.cart?18:11);
-    const [,,w,h,ax]=drawPerson(a),half=Math.max(ax,w-ax)+4+(a===G&&G.cart?100:0);if(a===G&&G.cart)drawCart(a);
+    const [,,w,h,ax]=drawPerson(a),half=Math.max(ax,w-ax)+4;
     occlude(a,a.x-half,a.x+half,a.y-(a.z||0)-h-4,a.y+8);
     if(a===G){ctx.globalAlpha=.4;drawPerson(a);ctx.globalAlpha=1} // la nonna dietro un mobile si vede in trasparenza
     if(a===G&&G.bag.length){const t=G.bag.length>1?G.bag.length+' DA PESARE':G.bag[0];ctx.font='700 28px "Pixelify Sans",monospace';ctx.textAlign='center';ctx.textBaseline='middle';const w=ctx.measureText(t).width+20;
@@ -604,6 +622,7 @@ function render(now){
     if(G.bag.length&&!nearScale()){const b=Math.sin(now/180)*8;tag(SCALE.x,SCALE.y-255+b,QUEUE[0]===G?'⚖ TOCCA A TE':'⚖ BILANCIA',QUEUE[0]===G?'#ffe6a0':'#a8e4b4')}
     const s=G.weighing||(G.bag.length&&nearScale())?null:target();if(s){const [x,y]=iso(s.i,s.j,s.m.labelH||150);tag(x,y,FRESH.has(s.n)?s.n+' · '+CODE[s.n]:s.n,FRESH.has(s.n)?'#a8e4b4':'#e8c878')}
     if(G.bag.length&&nearScale()&&!G.weighing){const me=QUEUE[0]===G,k=QUEUE.indexOf(G);tag(SCALE.x,SCALE.y-245,me?'PESA QUI':k>0?'SEI '+(k+1)+'ª':'PRENOTA',me?'#a8e4b4':'#f0c0a0')}}
+  if(G&&G.state==='play'&&lv(LV).cart&&!G.cart&&load()>=4){const [x,y]=iso(R-.5,C-3.3);tag(x,y-150+Math.sin(now/180)*8,'🛒 CARRELLI','#ffe6a0')}
   if(G&&G.state==='play'){for(const c of CASSE)if(c.fast){const [x,y]=iso(c.m.i+1.5,c.m.j+1,0);tag(x,y-190,'⚡ MAX 5 PEZZI','#ffe6a0')}
     if(OUT&&OUT.t>0)for(const m of MODS)if(m.cat===OUT.n){const [x,y]=iso(m.i+m.w/2,m.j+m.d/2,(m.labelH||150)+40),t=Math.ceil(OUT.t);tag(x,y,'ESAURITO '+Math.floor(t/60)+':'+String(t%60).padStart(2,'0'),'#f0a0a0')}}
   // display della macelleria: numero chiamato in rosso, lampeggia mentre scadono i 5 s

diff --git a/tools/pg.py b/tools/pg.py
@@ -33,7 +33,13 @@ SHEETS = {
  'ragazzo':  (235, 'idle R,w1 R,w2 R,w3 R, bidle R,b1 R,-,b3 R, skid R,grab R,trip R,sorry R'),
  'cassieri': (250, 'f_idle L,f_scan L,f_type L,f_wave L, m_idle L,m_scan L,m_type L,m_wave L'),
  'macellaio': (255, 'idle L,chop L,give L,call L'),
+ # fogli con più personaggi: la posa si scrive chi:posa
+ 'nonna2':   (205, 'nonnac:idle R,nonnac:w1 R,nonnac:w2 R,nonnac:w3 R, nonnac:bidle R,nonnac:b1 R,nonnac:b2 R,nonnac:b3 R, nonna:phone R,nonna:slip R,nonna:watch R,nonna:wait R'),
+ 'pulizie':  (235, 'idle R,w1 R,w2 R,w3 R, mop1 R,mop2 R,sign R,rest R'),
+ 'magazziniere': (245, 'idle R,w1 R,w2 R,w3 R, carry R,shelf R,kneel R,thumb R'),
+ 'clienti2': (245, 'dama:idle R,manager:idle R,studente:idle R,tifoso:idle R, papa:idle R,vecchina:idle R,muratore:idle R,riccia:idle R'),
 }
+CARTS = ('nonnac:', 'papa:', 'vecchina:', 'muratore:', 'riccia:', 'magazziniere:idle', 'magazziniere:w')  # con carrello: àncora a metà tra piedi e ruote
 if __name__ == '__main__':
     out, preview = {}, []
     for name, (h, spec) in SHEETS.items():
@@ -49,8 +55,8 @@ if __name__ == '__main__':
             f = f.resize((max(1, round(f.width * k)), max(1, round(f.height * k))), Image.LANCZOS)
             a = np.asarray(f)[:, :, 3]; bot = a[int(a.shape[0] * .88):]
             xs = np.where(bot.max(0) > 0)[0]
-            ax = (xs[0] + xs[-1]) / 2 if name in ('baffi', 'mamma') or not len(xs) else float(np.median(np.where(bot > 0)[1]))
-            key = name + ':' + pose
+            key = pose if ':' in pose else name + ':' + pose
+            ax = (xs[0] + xs[-1]) / 2 if name in ('baffi', 'mamma') or key.startswith(CARTS) or not len(xs) else float(np.median(np.where(bot > 0)[1]))
             out[key] = dict(img=f, ax=round(ax), ay=f.height)
     # impacchetto a scaffale
     W, x, y, rowh, pos = 1400, 0, 0, 0, {}

diff --git a/tools/kit.py b/tools/kit.py
@@ -11,6 +11,7 @@ PRO = alpha('kit/foglio-prodotti.jpg')
 MOB2 = alpha('kit/foglio-mobili2.jpg')
 PRO2 = alpha('kit/foglio-prodotti2.jpg')
 MAC = alpha('kit/foglio-macelleria.jpg')
+EXT = alpha('kit/foglio-extra.jpg')
 
 # il foglio mobili ha righe chiare del pavimento sotto lo scaffale doppio: lì uso una soglia più larga
 def loose(img, box):
@@ -152,6 +153,9 @@ if __name__ == '__main__':
     for n, (box, h) in PRODS.items(): items['p:' + n + ':0'] = {'img': product(box, h)}
     items['p:CARNE:0'] = {'img': product((1389, 1555, 1833, 1833), 30, MAC)}
     items['distributore'] = {'img': product((1109, 187, 1304, 699), 70, MAC)}
+    items['cartello'] = {'img': product((180, 165, 530, 625), 38, EXT)}
+    items['carrelli'] = {'img': product((670, 95, 1345, 785), 62, EXT)}
+    items['cestini'] = {'img': product((1480, 160, 1845, 760), 48, EXT)}
     # insalata e cavolo nel foglio sono quasi uguali: insalata verso il giallo-chiaro, cavolo verso il verde-azzurro
     import colorsys
     for n, dh, kv, add in (('INSALATA', -.06, 1.12, .05), ('CAVOLI', .08, .95, 0)):
